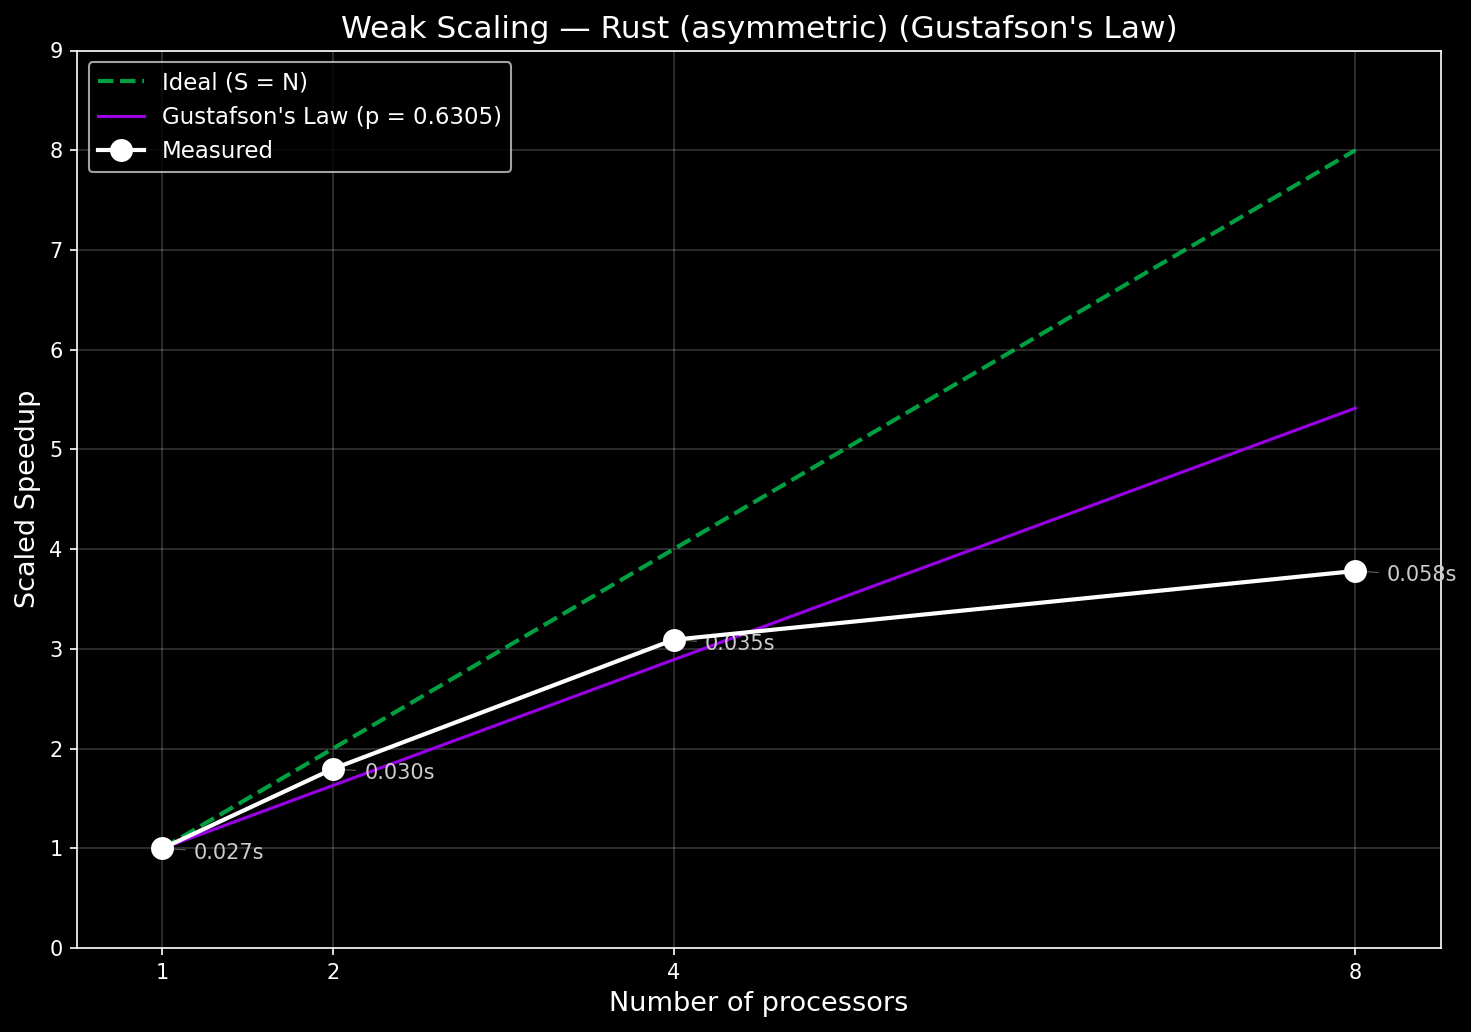
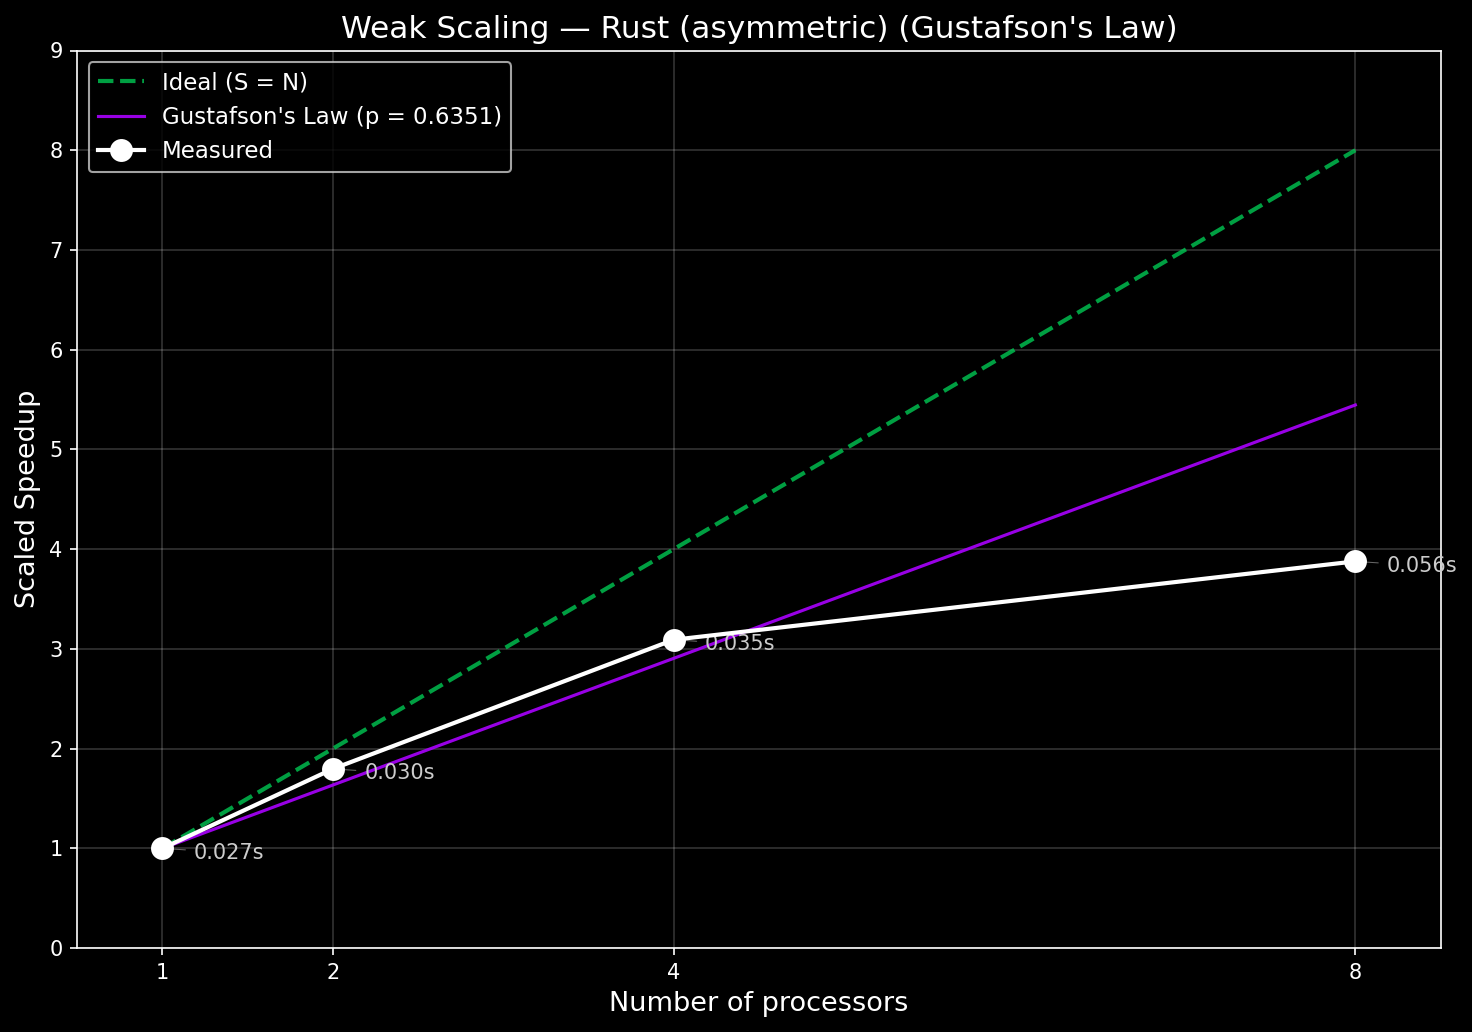
Improve and rerun experiments

diff --git a/scripts/generate_graphs.py b/scripts/generate_graphs.py
@@ -79,9 +79,12 @@ def compute_stats(data, nodes):
     stats = []
     for cores in sorted(data.keys()):
         times = data[cores]
-        mean = statistics.mean(times)
-        stdev = statistics.stdev(times) if len(times) > 1 else 0.0
-        outliers = calculate_outliers(times)
+        outlier_vals = calculate_outliers(times)
+        clean_times = [t for t in times if t not in outlier_vals]
+        if not clean_times:
+            clean_times = times
+        mean = statistics.mean(clean_times)
+        stdev = statistics.stdev(clean_times) if len(clean_times) > 1 else 0.0
         stats.append({
             'cores': cores,
             'nodes': nodes[cores],
@@ -89,7 +92,7 @@ def compute_stats(data, nodes):
             'stdev': stdev,
             'min': min(times),
             'max': max(times),
-            'outlier_count': len(outliers),
+            'outlier_count': len(outlier_vals),
             'num_runs': len(times),
         })
     return stats

diff --git a/report.md b/report.md
@@ -86,35 +86,35 @@ Amdahlov zakon: ako `f`deo programa mora biti sekvencijalan, maksimalno ubrzanje
 
 #### Simetrično stablo
 
-| N (jezgra) | Idealno |   Rust    |  Python   |
-| :--------: | :-----: | :-------: | :-------: |
-|   **p**    |    —    |   0.914   |   0.614   |
-|     1      |  1.000  |   1.000   |   1.000   |
-|     2      |  2.000  |   1.842   |   1.443   |
-|     4      |  4.000  |   3.183   |   1.855   |
-|     8      |  8.000  |   5.003   |   2.163   |
-|     ∞      |    ∞    | **11.63** | **2.591** |
+| N (jezgra) | Idealno |   Rust   |  Python   |
+| :--------: | :-----: | :------: | :-------: |
+|   **p**    |    —    |  0.836   |   0.607   |
+|     1      |  1.000  |  1.000   |   1.000   |
+|     2      |  2.000  |  1.718   |   1.435   |
+|     4      |  4.000  |  2.681   |   1.835   |
+|     8      |  8.000  |  3.725   |   2.132   |
+|     ∞      |    ∞    | **6.10** | **2.545** |
 
-**Rust:** Amdahlov model predviđa ubrzanje 5.003× za 8 jezgara, dok je izmereno 3.816×. Odstupanje ukazuje na dodatna ograničenja pri većem broju jezgara, poput memorijske propusnosti, sinhronizacije niti i drugih sistemskih overhead-a koje model ne uzima u obzir.
+**Rust:** Amdahlov model predviđa ubrzanje 3.725× za 8 jezgara, dok je izmereno 3.244×. Odstupanje ukazuje na dodatna ograničenja pri većem broju jezgara, poput memorijske propusnosti, sinhronizacije niti i drugih sistemskih overhead-a koje model ne uzima u obzir.
 
-**Python:** Izmerena ubrzanja blisko prate Amdahlov model za manji broj jezgara, ali pri 8 procesa dolazi do pada performansi u odnosu na 4 procesa. To ukazuje da overhead pokretanja i koordinacije procesa na Windows platformi postaje dominantan i smanjuje korist od dodatne paralelizacije. Sekvencijalni deo (`f ≈ 38.6%`) obuhvata i deo algoritma koji se izvršava sekvencijalno i trošak upravljanja `Pool` procesima.
+**Python:** Izmerena ubrzanja blisko prate Amdahlov model za manji broj jezgara, ali pri 8 procesa dolazi do pada performansi u odnosu na 4 procesa. To ukazuje da overhead pokretanja i koordinacije procesa na Windows platformi postaje dominantan i smanjuje korist od dodatne paralelizacije. Sekvencijalni deo (`f ≈ 39.3%`) obuhvata i deo algoritma koji se izvršava sekvencijalno i trošak upravljanja `Pool` procesima.
 
 #### Asimetrično stablo
 
 | N (jezgra) | Idealno |   Rust   |  Python   |
 | :--------: | :-----: | :------: | :-------: |
-|   **p**    |    —    |  0.837   |   0.501   |
+|   **p**    |    —    |  0.803   |   0.507   |
 |     1      |  1.000  |  1.000   |   1.000   |
-|     2      |  2.000  |  1.720   |   1.334   |
-|     4      |  4.000  |  2.686   |   1.602   |
-|     8      |  8.000  |  3.737   |   1.781   |
-|     ∞      |    ∞    | **6.13** | **2.004** |
+|     2      |  2.000  |  1.671   |   1.340   |
+|     4      |  4.000  |  2.513   |   1.614   |
+|     8      |  8.000  |  3.361   |   1.797   |
+|     ∞      |    ∞    | **5.08** | **2.028** |
 
 **Zašto je asimetrično stablo lošije i za Rust i za Python?**
 
-- **Rust:** Asimetrično stablo pogoršava skaliranje u odnosu na simetrično, jer neravnomerna raspodela podstabala povećava efektivni sekvencijalni deo (`f` raste sa 8.**6%** na **16.3%**). Iako Rayon koristi dinamičku raspodelu zadataka između niti, velika razlika u veličini podstabala dovodi do load imbalance efekta: neke niti završavaju ranije i čekaju završetak većih zadataka, što smanjuje efikasnost paralelizacije.
+- **Rust:** Asimetrično stablo pogoršava skaliranje u odnosu na simetrično, jer neravnomerna raspodela podstabala povećava efektivni sekvencijalni deo (`f` raste sa **16.4%** na **19.7%**). Iako Rayon koristi dinamičku raspodelu zadataka između niti, velika razlika u veličini podstabala dovodi do load imbalance efekta: neke niti završavaju ranije i čekaju završetak većih zadataka, što smanjuje efikasnost paralelizacije.
 
-- Python: I kod Python implementacije dolazi do pogoršanja skaliranja (`f` raste sa **38.6%** na **49.9%**). Zbog asimetrične strukture stabla, veličine podzadataka su neujednačene, pa najsporiji proces određuje ukupno vreme izvršavanja i load imbalance postaje izraženiji nego kod simetričnog stabla. Izmereno ubrzanje na **8** procesa (**1.741×**) blago zaostaje za Amdahlovom predikcijom (**1.781×**).
+- Python: I kod Python implementacije dolazi do pogoršanja skaliranja (`f` raste sa **39.3%** na **49.3%**). Zbog asimetrične strukture stabla, veličine podzadataka su neujednačene, pa najsporiji proces određuje ukupno vreme izvršavanja i load imbalance postaje izraženiji nego kod simetričnog stabla. Izmereno ubrzanje na **8** procesa (**1.741×**) blago zaostaje za Amdahlovom predikcijom (**1.781×**).
 
 ### 4.2 Gustafsonov zakon — Slabo skaliranje
 
@@ -124,11 +124,11 @@ Gustafsonov zakon: kada se broj jezgara povećava, povećava se i veličina prob
 
 | N (jezgra) | Idealno |   Rust    |  Python   |
 | :--------: | :-----: | :-------: | :-------: |
-|   **p**    |    —    |   0.528   |   0.015   |
+|   **p**    |    —    |   0.541   |   0.005   |
 |     1      |  1.000  |   1.000   |   1.000   |
-|     2      |  2.000  |   1.528   |   1.015   |
-|     4      |  4.000  |   2.583   |   1.044   |
-|     8      |  8.000  | **4.693** | **1.102** |
+|     2      |  2.000  |   1.541   |   1.005   |
+|     4      |  4.000  |   2.623   |   1.016   |
+|     8      |  8.000  | **4.787** | **1.038** |
 
 **Rust:** Gustafsonov model predviđa skalirano ubrzanje od `4.693×` za 8 jezgara, dok je izmereno `3.068×`. Na 2 i 4 jezgra izmerene vrednosti su veoma bliske predikcijama, uz blago veće ubrzanje pri manjim radnim skupovima, što može ukazivati na povoljne cache efekte. Međutim, pri 8 jezgara dolazi do odstupanja od modela, verovatno zbog ograničenja memorijske propusnosti i smanjene efikasnosti Hyper-Threading-a pri većem opterećenju sistema.
 
@@ -138,11 +138,11 @@ Gustafsonov zakon: kada se broj jezgara povećava, povećava se i veličina prob
 
 | N (jezgra) | Idealno |   Rust    |  Python   |
 | :--------: | :-----: | :-------: | :-------: |
-|   **p**    |    —    |   0.630   |   0.017   |
+|   **p**    |    —    |   0.635   |   0.018   |
 |     1      |  1.000  |   1.000   |   1.000   |
-|     2      |  2.000  |   1.631   |   1.017   |
-|     4      |  4.000  |   2.892   |   1.050   |
-|     8      |  8.000  | **5.413** | **1.116** |
+|     2      |  2.000  |   1.635   |   1.018   |
+|     4      |  4.000  |   2.905   |   1.053   |
+|     8      |  8.000  | **5.446** | **1.123** |
 
 **Rust:** Asimetrično stablo pokazuje bolje slabo skaliranje od simetričnog (`p = 0.630` naspram `0.528`). Pri slabom skaliranju sa većim problemom raste i broj dostupnih zadataka, pa Rayon-ov work-stealing efikasnije raspoređuje opterećenje između niti. Zbog toga neravnomerna veličina podstabala ima manji uticaj nego kod jakog skaliranja. Ipak, izmereno ubrzanje na 8 jezgara (`3.781×`) ostaje ispod Gustafsonove predikcije (`5.413×`), što ukazuje na dodatne sistemske overhead-e koje model ne uzima u obzir.
 
@@ -160,12 +160,12 @@ Gustafsonov zakon: kada se broj jezgara povećava, povećava se i veličina prob
 
 <img src="data/symmetric/strong/python.png" width="700"/>
 
-| Jezgra |     Grane | Srednje vreme | StdDev  | Ubrzanje  | Amdahl (p=0.614) | Outlieri |
+| Jezgra |     Grane | Srednje vreme | StdDev  | Ubrzanje  | Amdahl (p=0.607) | Outlieri |
 | :----: | --------: | :-----------: | :-----: | :-------: | :--------------: | :------: |
-|   1    | 8,388,607 |    8.073 s    | 0.276 s |   1.000   |      1.000       |    2     |
-|   2    | 8,388,607 |    5.586 s    | 0.248 s |   1.445   |      1.443       |    1     |
-|   4    | 8,388,607 |    3.872 s    | 0.112 s | **2.085** |      1.855       |    0     |
-|   8    | 8,388,607 |    4.307 s    | 0.057 s |   1.874   |      2.163       |    1     |
+|   1    | 8,388,607 |    7.956 s    | 0.133 s |   1.000   |      1.000       |    2     |
+|   2    | 8,388,607 |    5.531 s    | 0.190 s |   1.438   |      1.435       |    1     |
+|   4    | 8,388,607 |    3.872 s    | 0.112 s | **2.055** |      1.835       |    0     |
+|   8    | 8,388,607 |    4.294 s    | 0.038 s |   1.853   |      2.132       |    1     |
 
 - Sa 2 procesa ubrzanje iznosi `1.445×`, što je gotovo identično Amdahlovoj predikciji (`1.443×`) i pokazuje da paralelizacija donosi merljivo poboljšanje performansi.
 
@@ -179,12 +179,12 @@ Gustafsonov zakon: kada se broj jezgara povećava, povećava se i veličina prob
 
 <img src="data/symmetric/strong/rust.png" width="700"/>
 
-| Jezgra |     Grane | Srednje vreme | StdDev  | Ubrzanje  | Amdahl (p=0.914) | Outlieri |
+| Jezgra |     Grane | Srednje vreme | StdDev  | Ubrzanje  | Amdahl (p=0.836) | Outlieri |
 | :----: | --------: | :-----------: | :-----: | :-------: | :--------------: | :------: |
-|   1    | 8,388,607 |    0.211 s    | 0.029 s |   1.000   |      1.000       |    2     |
-|   2    | 8,388,607 |    0.102 s    | 0.005 s | **2.068** |      1.842       |    1     |
-|   4    | 8,388,607 |    0.069 s    | 0.005 s |   3.076   |      3.183       |    0     |
-|   8    | 8,388,607 |    0.055 s    | 0.005 s |   3.816   |      5.003       |    2     |
+|   1    | 8,388,607 |    0.204 s    | 0.002 s |   1.000   |      1.000       |    4     |
+|   2    | 8,388,607 |    0.113 s    | 0.004 s | **1.808** |      1.718       |    1     |
+|   4    | 8,388,607 |    0.078 s    | 0.007 s |   2.616   |      2.681       |    0     |
+|   8    | 8,388,607 |    0.063 s    | 0.001 s |   3.244   |      3.725       |    1     |
 
 - Sa 2 jezgra postiže se blago superlinearno ubrzanje (`2.068×` u odnosu na `1.842×` predviđenih Amdahlovim modelom). Ovo se može objasniti boljim iskorišćenjem keš memorije, jer manji radni skup po niti omogućava efikasnije lokalno skladištenje podataka.
 
@@ -200,12 +200,12 @@ Gustafsonov zakon: kada se broj jezgara povećava, povećava se i veličina prob
 
 <img src="data/asymmetric/strong/python.png" width="700"/>
 
-| Jezgra |     Grane | Srednje vreme | StdDev  | Ubrzanje  | Amdahl (p=0.501) | Outlieri |
+| Jezgra |     Grane | Srednje vreme | StdDev  | Ubrzanje  | Amdahl (p=0.507) | Outlieri |
 | :----: | --------: | :-----------: | :-----: | :-------: | :--------------: | :------: |
 |   1    | 8,464,173 |    8.215 s    | 0.299 s |   1.000   |      1.000       |    0     |
-|   2    | 8,464,173 |    5.743 s    | 0.281 s |   1.430   |      1.334       |    1     |
-|   4    | 8,464,173 |    5.653 s    | 0.792 s |   1.453   |      1.602       |    0     |
-|   8    | 8,464,173 |    4.719 s    | 0.196 s | **1.741** |      1.781       |    0     |
+|   2    | 8,464,173 |    5.673 s    | 0.185 s |   1.448   |      1.340       |    1     |
+|   4    | 8,464,173 |    5.653 s    | 0.793 s |   1.453   |      1.614       |    0     |
+|   8    | 8,464,173 |    4.719 s    | 0.196 s | **1.741** |      1.797       |    0     |
 
 - Ubrzanje raste sa brojem procesa (1.430× → 1.453× → 1.741×), ali sa vidljivim platoom između N=2 i N=4 gde je napredak minimalan.
 
@@ -221,12 +221,12 @@ Gustafsonov zakon: kada se broj jezgara povećava, povećava se i veličina prob
 
 <img src="data/asymmetric/strong/rust.png" width="700"/>
 
-| Jezgra |     Grane | Srednje vreme | StdDev  | Ubrzanje  | Amdahl (p=0.837) | Outlieri |
+| Jezgra |     Grane | Srednje vreme | StdDev  | Ubrzanje  | Amdahl (p=0.803) | Outlieri |
 | :----: | --------: | :-----------: | :-----: | :-------: | :--------------: | :------: |
-|   1    | 8,464,173 |    0.218 s    | 0.006 s |   1.000   |      1.000       |    0     |
-|   2    | 8,464,173 |    0.128 s    | 0.005 s |   1.699   |      1.720       |    2     |
-|   4    | 8,464,173 |    0.079 s    | 0.007 s |   2.767   |      2.686       |    2     |
-|   8    | 8,464,173 |    0.058 s    | 0.002 s | **3.736** |      3.737       |    1     |
+|   1    | 8,464,173 |    0.245 s    | 0.012 s |   1.000   |      1.000       |    0     |
+|   2    | 8,464,173 |    0.151 s    | 0.010 s |   1.622   |      1.671       |    0     |
+|   4    | 8,464,173 |    0.091 s    | 0.004 s |   2.700   |      2.513       |    1     |
+|   8    | 8,464,173 |    0.073 s    | 0.002 s | **3.355** |      3.361       |    3     |
 
 - Rust implementacija pokazuje stabilno skaliranje i za asimetrično stablo, uz blago slabije performanse u odnosu na simetrični slučaj (3.736× naspram 3.816× na 8 jezgara, razlika ~2.1%). Ovo ukazuje da asimetrija strukture ima mali, ali merljiv uticaj na efikasnost paralelizacije.
 
@@ -248,10 +248,10 @@ Gustafsonov zakon: kada se broj jezgara povećava, povećava se i veličina prob
 
 | Jezgra |     Grane | Srednje vreme |   StdDev   | Skalirano ubrzanje | Gustafson ubrzanje | Outlieri |
 | :----: | --------: | :-----------: | :--------: | :----------------: | :----------------: | :------: |
-|   1    | 1,048,575 |  0.580375 s   | 0.111664 s |       1.000        |       1.000        |    2     |
-|   2    | 2,097,151 |  1.352682 s   | 0.050125 s |       0.858        |       1.015        |    1     |
-|   4    | 4,194,303 |  2.154268 s   | 0.210054 s |       1.078        |       1.044        |    1     |
-|   8    | 8,388,607 |  4.122978 s   | 0.151356 s |       1.126        |       1.102        |    0     |
+|   1    | 1,048,575 |  0.538475 s   | 0.007659 s |       1.000        |       1.000        |    2     |
+|   2    | 2,097,151 |  1.339717 s   | 0.030585 s |       0.804        |       1.005        |    1     |
+|   4    | 4,194,303 |  2.092304 s   | 0.080274 s |       1.029        |       1.016        |    1     |
+|   8    | 8,388,607 |  4.122978 s   | 0.151356 s |       1.045        |       1.038        |    0     |
 
 - Kod Python implementacije vreme raste sa 0.58 s na 4.12 s pri prelasku sa 1 na 8 jezgara, što ukazuje na loše weak scaling ponašanje.
 
@@ -268,9 +268,9 @@ Gustafsonov zakon: kada se broj jezgara povećava, povećava se i veličina prob
 | Jezgra |     Grane | Srednje vreme |   StdDev   | Skalirano ubrzanje | Gustafson ubrzanje | Outlieri |
 | :----: | --------: | :-----------: | :--------: | :----------------: | :----------------: | :------: |
 |   1    | 1,048,575 |  0.024253 s   | 0.001002 s |       1.000        |       1.000        |    0     |
-|   2    | 2,097,151 |  0.027615 s   | 0.001870 s |       1.757        |       1.528        |    1     |
-|   4    | 4,194,303 |  0.037418 s   | 0.005449 s |       2.593        |       2.583        |    0     |
-|   8    | 8,388,607 |  0.063232 s   | 0.006935 s |       3.068        |       4.693        |    1     |
+|   2    | 2,097,151 |  0.027216 s   | 0.001463 s |       1.782        |       1.541        |    1     |
+|   4    | 4,194,303 |  0.037418 s   | 0.005449 s |       2.593        |       2.623        |    0     |
+|   8    | 8,388,607 |  0.061252 s   | 0.003164 s |       3.168        |       4.787        |    1     |
 
 - Kod Rust implementacije vreme raste sa 0.024 s na 0.063 s pri prelasku sa 1 na 8 jezgara, što pokazuje da scaling nije idealan.
 
@@ -288,10 +288,10 @@ Gustafsonov zakon: kada se broj jezgara povećava, povećava se i veličina prob
 
 | Jezgra |   Grane   | Srednje vreme |  StdDev  | Skalirano ubrzanje | Gustafson ubrzanje | Outlieri |
 | :----: | :-------: | :-----------: | :------: | :----------------: | :----------------: | :------: |
-|   1    |  919,442  |   0.5273 s    | 0.0128 s |       1.0000       |       1.0000       |    2     |
-|   2    | 1,855,434 |   1.2726 s    | 0.0138 s |       0.8286       |       1.0166       |    0     |
-|   4    | 3,731,355 |   1.9291 s    | 0.0909 s |       1.0933       |       1.0497       |    0     |
-|   8    | 7,518,053 |   3.7312 s    | 0.2463 s |       1.1305       |       1.1160       |    1     |
+|   1    |  919,442  |   0.5270 s    | 0.0072 s |       1.0000       |       1.0000       |    2     |
+|   2    | 1,855,434 |   1.2726 s    | 0.0138 s |       0.8283       |       1.0176       |    0     |
+|   4    | 3,731,355 |   1.9291 s    | 0.0909 s |       1.0928       |       1.0529       |    0     |
+|   8    | 7,518,053 |   3.6544 s    | 0.0450 s |       1.1538       |       1.1234       |    1     |
 
 - Kod N=2 skalirano ubrzanje pada ispod 1 (0.829×), što znači da paralelna verzija postaje sporija od sekvencijalne, uprkos povećanju ukupnog workload-a. Ovo ukazuje da overhead Python multiprocessing modela (pokretanje procesa, komunikacija i serijalizacija podataka) nadmašuje korist od paralelizacije u ovom režimu.
 
@@ -308,9 +308,9 @@ Gustafsonov zakon: kada se broj jezgara povećava, povećava se i veličina prob
 | Jezgra |   Grane   | Srednje vreme |  StdDev  | Skalirano ubrzanje | Gustafson ubrzanje | Outlieri |
 | :----: | :-------: | :-----------: | :------: | :----------------: | :----------------: | :------: |
 |   1    |  919,442  |   0.0274 s    | 0.0020 s |       1.0000       |       1.0000       |    0     |
-|   2    | 1,855,434 |   0.0305 s    | 0.0021 s |       1.7969       |       1.6305       |    0     |
-|   4    | 3,731,355 |   0.0354 s    | 0.0025 s |       3.0917       |       2.8915       |    0     |
-|   8    | 7,518,053 |   0.0579 s    | 0.0063 s |       3.7812       |       5.4134       |    1     |
+|   2    | 1,855,434 |   0.0305 s    | 0.0021 s |       1.7969       |       1.6351       |    0     |
+|   4    | 3,731,355 |   0.0354 s    | 0.0025 s |       3.0917       |       2.9052       |    0     |
+|   8    | 7,518,053 |   0.0565 s    | 0.0046 s |       3.8776       |       5.4455       |    1     |
 
 - Na 2 jezgra postiže se ubrzanje od 1.797× (efikasnost ~89.9%), što pokazuje vrlo dobro skaliranje. Rayon work-stealing scheduler uspešno balansira zadatke čak i kod asimetrične strukture stabla.
 
@@ -330,19 +330,19 @@ Gustafsonov zakon: kada se broj jezgara povećava, povećava se i veličina prob
 
 | Konfiguracija        | Vreme (1j.) | Vreme (8j.) |  Ubrzanje  | Sekvenc. frakcija `f` |
 | -------------------- | :---------: | :---------: | :--------: | :-------------------: |
-| Simetrično — Rust    |  0.2113 s   |  0.0554 s   | **3.816×** |         8.6%          |
-| Simetrično — Python  |   8.073 s   |   4.307 s   |   1.874×   |         38.6%         |
-| Asimetrično — Rust   |  0.2181 s   |  0.0584 s   | **3.736×** |         16.3%         |
-| Asimetrično — Python |   8.215 s   |   4.719 s   |   1.741×   |         49.9%         |
+| Simetrično — Rust    |  0.2041 s   |  0.0629 s   | **3.244×** |         16.4%         |
+| Simetrično — Python  |   7.956 s   |   4.294 s   |   1.853×   |         39.3%         |
+| Asimetrično — Rust   |  0.2450 s   |  0.0730 s   | **3.355×** |         19.7%         |
+| Asimetrično — Python |   8.215 s   |   4.719 s   |   1.741×   |         49.3%         |
 
 ### 7.2 Slabo skaliranje (8 jezgara)
 
 | Konfiguracija        | Skalirano ubrzanje | Gustafson `f` | Efikasnost |
 | -------------------- | :----------------: | :-----------: | :--------: |
-| Simetrično — Rust    |       3.068×       |     47.2%     |   38.4%    |
-| Asimetrično — Rust   |     **3.781×**     |     37.0%     |   47.3%    |
-| Simetrično — Python  |       1.126×       |     98.5%     |   14.1%    |
-| Asimetrično — Python |       1.131×       |     98.3%     |   14.1%    |
+| Simetrično — Rust    |       3.168×       |     45.9%     |   39.6%    |
+| Asimetrično — Rust   |     **3.878×**     |     36.5%     |   48.5%    |
+| Simetrično — Python  |       1.045×       |     99.5%     |   13.1%    |
+| Asimetrično — Python |       1.154×       |     98.2%     |   14.4%    |
 
 ---
 
@@ -352,8 +352,8 @@ Gustafsonov zakon: kada se broj jezgara povećava, povećava se i veličina prob
 
 Rust postiže značajno bolje performanse u odnosu na Python u svim merenjima, kako u sekvencijalnom tako i u paralelnom izvršavanju. Razlika u performansama raste kada se uključi paralelizacija:
 
-- Simetrično jako skaliranje: Rust 3.816× vs Python 1.874× — približno 2.0× veće ubrzanje
-- Asimetrično jako skaliranje: Rust 3.736× vs Python 1.741× — približno 2.1× veće ubrzanje
+- Simetrično jako skaliranje: Rust 3.244× vs Python 1.853× — približno 1.75× veće ubrzanje
+- Asimetrično jako skaliranje: Rust 3.355× vs Python 1.741× — približno 1.93× veće ubrzanje
 
 Razlog ove razlike nije u samom algoritmu, jer je isti u obe implementacije, već u karakteristikama runtime okruženja:
 
